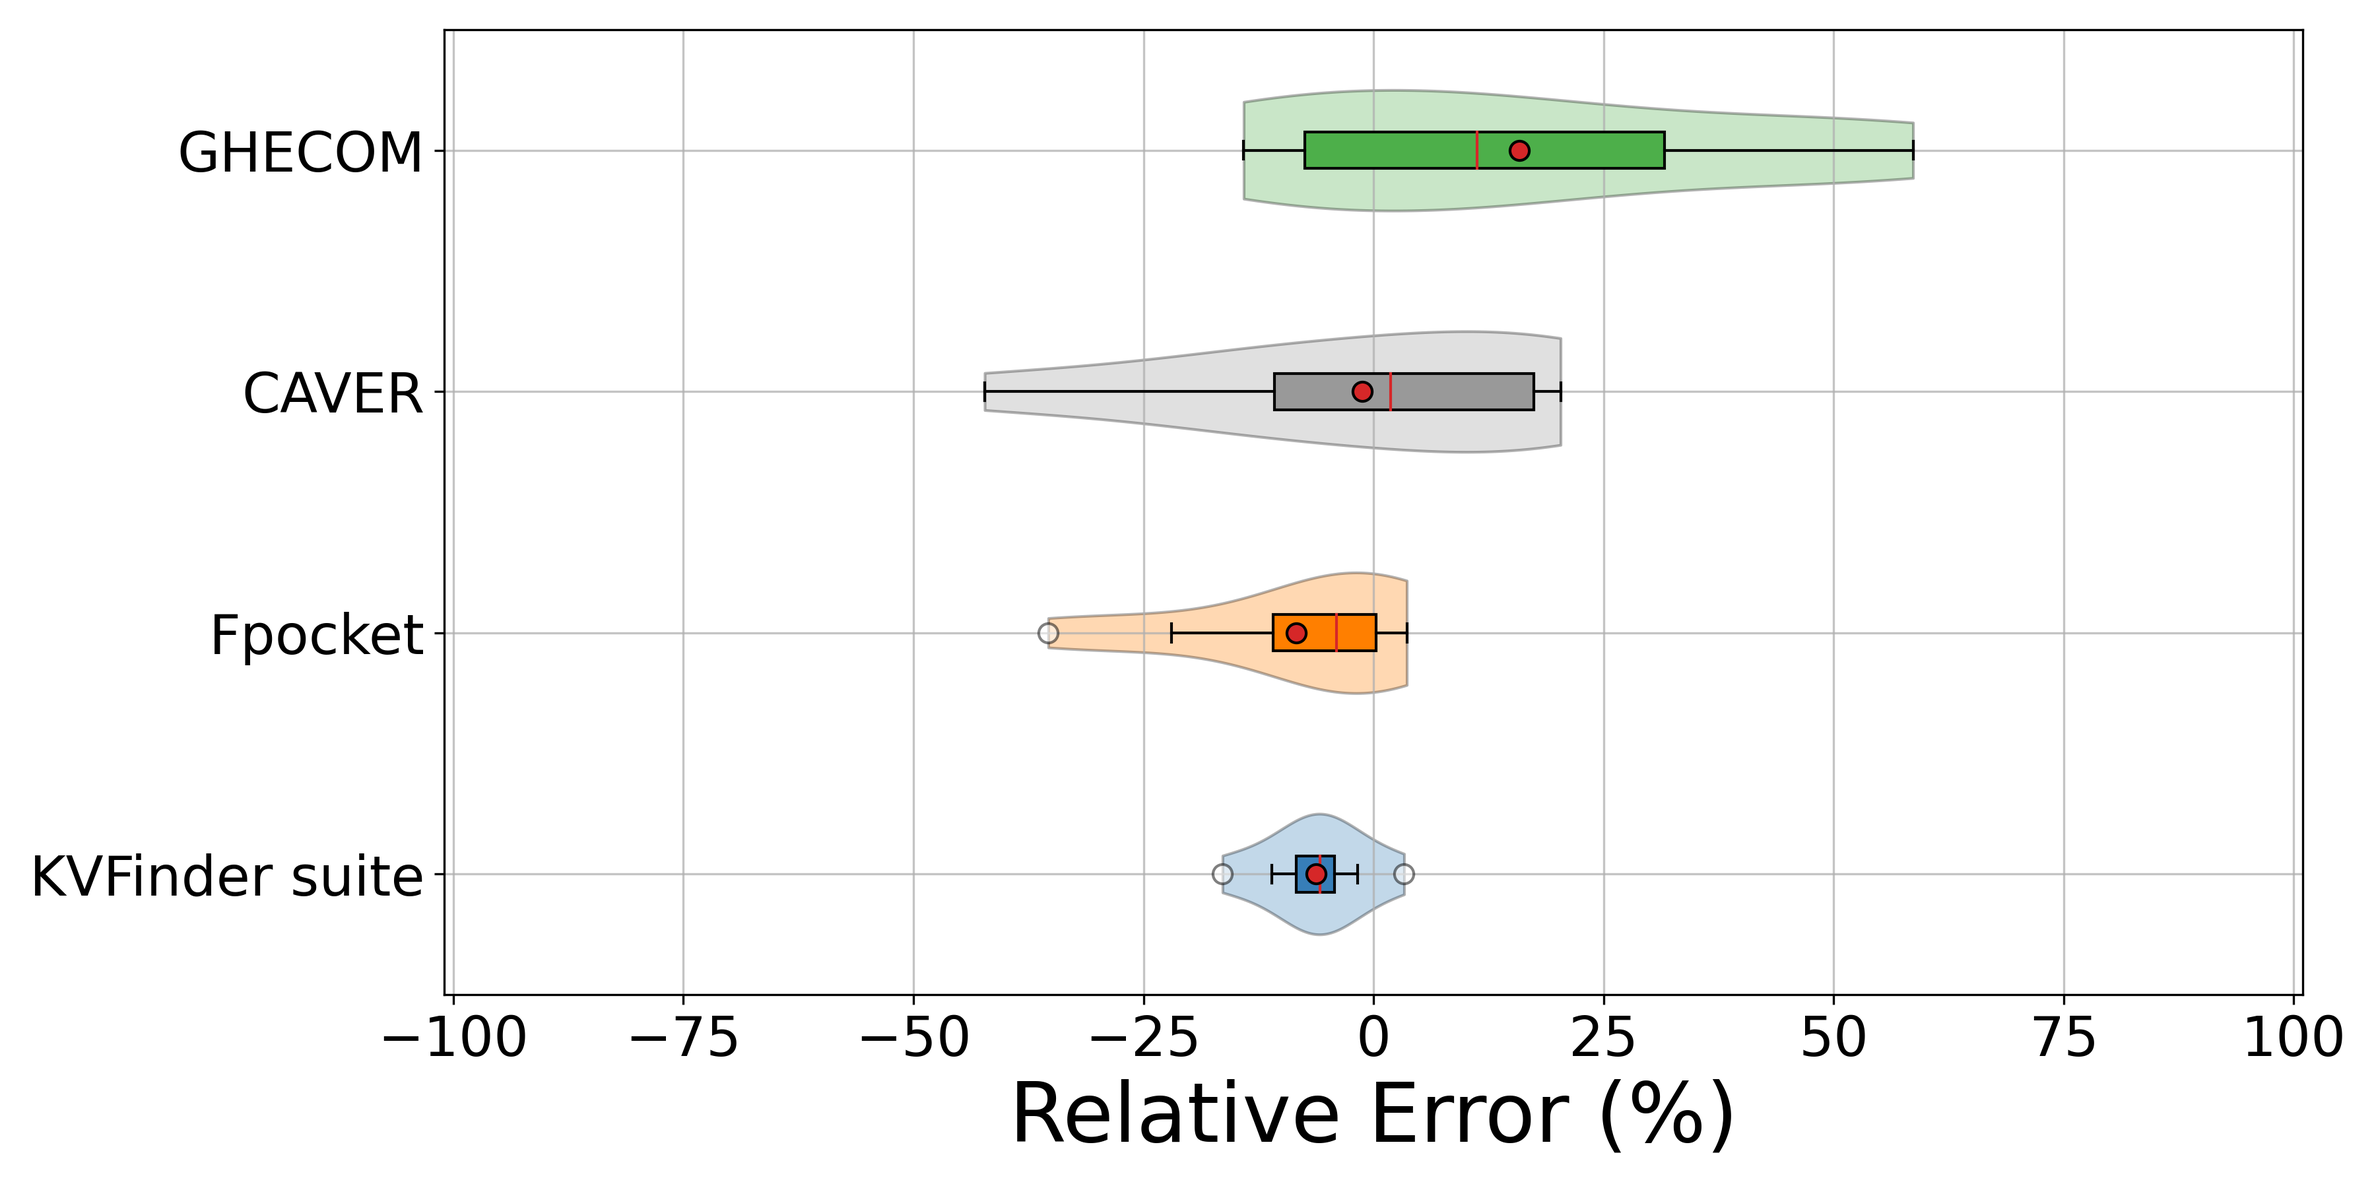
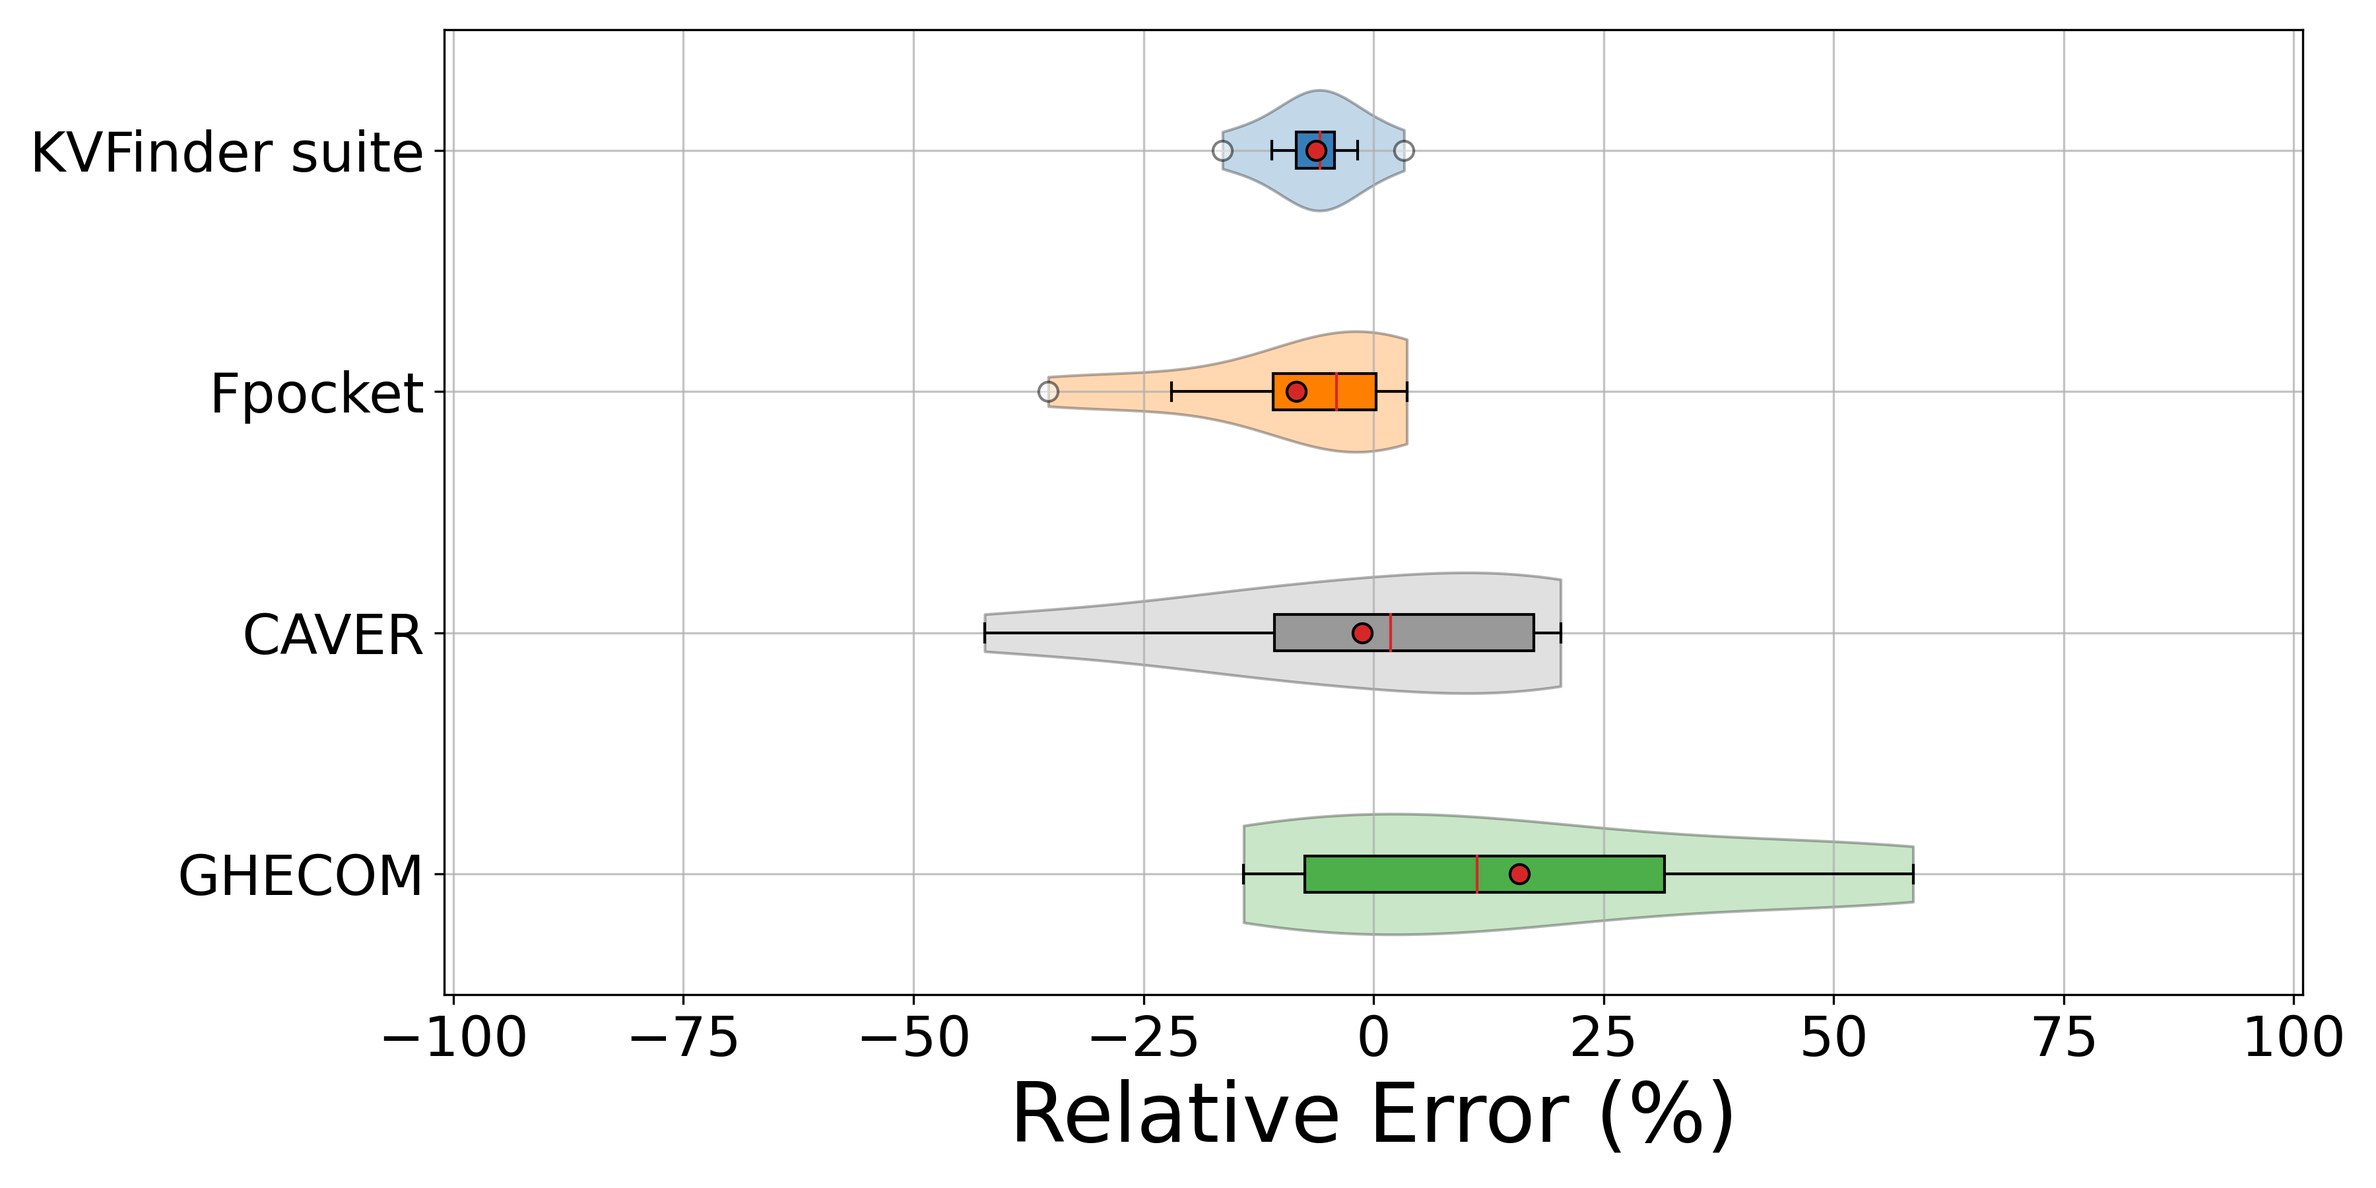
Update benchmarking section

diff --git a/phdthesis.tex b/phdthesis.tex
@@ -1458,7 +1458,7 @@ Despite these limitations, KVFinderMD represents a significant advancement in th
 
 \section{Benchmarking of Well-established Cavity Detection Tools}
 
-Cavity detection methods are usually only benchmarked on their ability to detect binding sites (\ie, qualitative assessment), and not on their ability to accurately characterize their volume (\ie, quantitative assessment). Quantitative descriptors still remains a challenge in the cavity detection field, because the "real" cavity volume in biological systems is not experimentally measurable. In collaboration with Dr. György Szalóki (Laboratoire Hétérochimie Fondamentale et Appliquée - Université Toulouse III Paul Sabatier - France), we developed a benchmarking protocol to evaluate the performance of cavity detection tools in a dataset of well-defined artificial supramolecular cages. The source code for the benchmarking protocol (\href{https://github.com/LBC-LNBio/SMC-Benchmarking/releases/tag/v1.0.0}{v1.0.0}) is available at the following repository: \url{https://github.com/LBC-LNBio/SMC-Benchmarking}.
+Cavity detection methods are usually only benchmarked on their ability to detect binding sites (\ie, qualitative assessment), and not on their ability to accurately characterize their volume (\ie, quantitative assessment). Quantitative descriptors still remains a challenge in the cavity detection field, because the "real" cavity volume in biological systems is not experimentally measurable. In collaboration with Dr. György Szalóki (Laboratoire Hétérochimie Fondamentale et Appliquée - Université Toulouse III Paul Sabatier - France), we developed a benchmarking protocol to evaluate the performance of cavity detection tools in a dataset of well-defined artificial supramolecular cages. This benchmarking protocol was applied to the well-established cavity detection tools, including KVFinder suite, Fpocket, GHECOM, and CAVER tools. The cavity detection benchmarking procedure, optimized detection parameters, and detailed results are available in the article published in the \textit{Journal of Chemical Information and Modeling} \cite{guerra2023B}. The source code for the benchmarking protocol (\href{https://github.com/LBC-LNBio/SMC-Benchmarking/releases/tag/v1.0.0}{v1.0.0}) is available at the following repository: \url{https://github.com/LBC-LNBio/SMC-Benchmarking}.
 
 The "real" cavity volume could be derived from the Rebek's rule of thumb \cite{mecozzi1998}, that states, in any biological or artificial host-guest system, the ratio of the guest and host's cavity is $0.55\pm0.09$, termed as packing  coefficient (\acs{PC}; Eq. \ref{eq:packing-coefficient}), when guest encapsulation is only driven by weak intermolecular interactions (\eg, Keesom forces, Debye forces, and London dispersion forces). However, this rule of thumb is not applicable to systems with strong intermolecular forces (\eg, hydrogen bonds), where the packing coefficient can reach up to $0.70$. 
 
@@ -1475,7 +1475,7 @@ Within this context, there are no existing benchmark dataset to test the perform
 
 The benchmark dataset 1 (Figure \ref{fig:benchmark-dataset-1}) comprises 13 X-ray structures of well-known supramolecular cages, with guest molecules being encapsulated in their void or void-like cavities, following the Rebek's rule of thumb. The guests molecules were removed from their cages and their \acs{vdW} volumes were estimated using \textit{volume} method from \textit{pyKVFinder.Molecule} class (see Section \ref{sec:molecular-volume-estimation}). With it, the "real" cavity volume were calculated using the Rebek's rule of thumb. Then, the cavities of the supramolecular cages were detected and their volumes estimated for each cavity detection tool. As good prediction metrics, the relative error (\acs{RE}; Eq. \ref{eq:re}) and the mean relative absolute error (\acs{MRAE}; Eq. \ref{eq:mrae}) were calculated between cavity volumes.
 
-\begin{figure}[ht]
+\begin{figure}[H]
   \centerline{\includegraphics[scale=0.9]{images/benchmark-dataset-1.png}}
   \centerline{\tiny{\textbf{Source:} Reprinted with permission from \cite{guerra2023B}. Copyright 2023 American Chemical Society.}}
   \caption[Benchmark dataset 1]{\textbf{Benchmark dataset 1.} Each of these inclusion complexes features guest molecule(s) ($G_i$) within the cavity of a supramolecular cage ($B_i$). B1: \ch{(NEt4)+} $\subset$ \ch{Ti4L6} (CSD ID: 718468) \cite{pluth2008}. B2: \ch{(BnNMe3)+} $\subset$ \ch{Ga4L6} (CSD ID: 718469) \cite{pluth2008}. B3: \ch{(Cp2Co)+} $\subset$ \ch{Ti4L6} (CSD ID: 718470) \cite{pluth2008}. B4: \ch{(Cp2Co\ast)+} $\subset$ \ch{Ga4L6} (CSD ID: 718471) \cite{pluth2008}. B5: \ch{(BF4)-} $\subset$ \ch{Pd2L4} (CSD ID: 1862753) \cite{steel2018}. B6: \ch{(OCl4)-} $\subset$ \ch{Pd2L4} (CSD ID: 1862752) \cite{steel2018}. B7: \ch{C60} $\subset$ \ch{Zn8L4} (CSD ID: 942782) \cite{nakamura2013}. B8: \ch{C60} $\subset$ \ch{Pd2L4} (CSD ID: 1872778) \cite{eichstaedt2019}. B9: Adamantane-2,6-dione $\subset$ \ch{Pd2L4} (CSD ID: 183906) \cite{johnson2002}. B10: \ch{(NEt4)+} $\subset$ \ch{Pd2L4} (CSD ID: 100947) \cite{caulder1998}. B11: [Corannulene+Cyclohexane] $\subset$ \ch{Pd2L4} (CSD ID: 2068665) \cite{yang2021}. B12: \ch{C60} $\subset$ \ch{Pd2L4} (CSD ID: 2068666) \cite{yang2021}. B13: \ch{C70} $\subset$ \ch{Pd2L4} (CSD ID: 2068667) \cite{yang2021}.}
@@ -1496,15 +1496,13 @@ The benchmark dataset 1 (Figure \ref{fig:benchmark-dataset-1}) comprises 13 X-ra
 
 \noindent where $MRAE$ is the mean relative absolute error, $V_i$ is the "real" volume of cavity $i$, $\hat{V_i}$ is the estimated volume of cavity $i$, and $N_c$ is the number of cavities.
 
-The performance of each cavity detection tool was assessed by comparing the estimated cavity volumes with the "real" cavity volumes (Table \ref{tab:benchmark-1}). First, we analyzed the \acsp{RE}, that are associated with: (1) defining cavity boundaries, and (2) deviations in the \acs{PC} relative to the Rebek's rule of thumb. To mitigate the first source of errors, benchmark dataset 1 exclusively contains supramolecular cages with well-defined void or void-like cavities, where delineating cavity boundaries is straighforward. Conversely, deviations from the Rebek's rule of thumb are more difficult to identify. Denser packings (\ie, $PC > 0.55$) in inclusion complexes can be reached by forces beyond weak dipole-dipole interactions (\eg, hydrogen bonds, $\pi$-$\pi$, and CH-$\pi$ interactions), which favor strong host-guest association \cite{pluth2008}. This results in a loss of entropy (\ie, restricted movement of the guest within the cage), which is counterbalanced by the extra stabilization enthalpy. Consequently, negative \acs{RE} is expected in such instances, resulting from to the overestimation of cavity volume. This trend can be clearly observed in the results of the KVFinder suite, Fpocket, and CAVER for B4--B9, B12, and B13 cages, with experimental evidence for H-bonding in B5, B6, and B9 \cite{steel2018,johnson2002}. Moreover, considering cases with \ch{(Cp2Co\ast)+} (B4), \ch{C60} (B7, B8, and B12), and \ch{C70} (B13) as guests, additional $\pi$-$\pi$ and CH-$\pi$ interactions contribute strong host-guest associations. GHECOM, on the other hand, show a large negative \acs{RE} for each supramolecular cage, suggesting that the calculation error becomes more significant. Conversely, \acs{MRAE} values clearly show that KVFinder suite and Fpocket provide the most reliable cavity volumes.
-
-\begin{table}[H]
+\begin{table}[h]
   \centering
-  \caption[Performance of the well-established cavity detection tools in Benchmark dataset 1]{\textbf{Performance of the well-established cavity detection tools in Benchmark dataset 1.} Estimated cavity volumes by the well-established cavity detection tools. The relative error are calculated using the "real" cavity volume as reference and can be found in paratheses. $V$: "real" cavity volume. $V_{guest}$: guest \acs{vdW} volume. $V = V_{guest} / 0.55$.}
+  \caption[Performance of the well-established cavity detection tools in Benchmark dataset 1]{\textbf{Performance of the well-established cavity detection tools in benchmark dataset 1.} Estimated cavity volumes by the well-established cavity detection tools. The relative error are calculated using the "real" cavity volume as reference and can be found in paratheses. $V$: "real" cavity volume. $V_{guest}$: guest \acs{vdW} volume. $V = V_{guest} / 0.55$.}
   \scalebox{0.725}{  
     \begin{tabular}{ccccabef}
       \hline
-      \textbf{Cage} & \textbf{Guest} & $\boldsymbol{V_{guest}}$ & $\boldsymbol{V}$ & \textbf{KVFinder suite} & \textbf{fpocket} & \textbf{CAVER} & \textbf{GHECOM} \\ \hline
+      \textbf{Cage} & \textbf{Guest} & $\boldsymbol{V_{guest}}$ & $\boldsymbol{V}$ & \textbf{KVFinder suite} & \textbf{Fpocket} & \textbf{CAVER} & \textbf{GHECOM} \\ \hline
       B1 & \ch{(NEt4)+} & 150 & 273 & 283 (3.7\%) & 247 (-9.5\%) & 396 (44.8\%) & 175 (-35.9\%) \\
       B2 & \ch{(BnNMe3)+} & 155 & 281 & 283 (0.8\%) & 279 (-0.6\%) & 339 (20.8\%) & 192 (-31.7\%) \\ 
       B3 & \ch{(Cp2Co)+} & 137 & 248 & 269 (8.1\%) & 277 (11.6\%) & 335 (34.9\%) & 191 (-23.3\%) \\
@@ -1524,19 +1522,19 @@ The performance of each cavity detection tool was assessed by comparing the esti
   \label{tab:benchmark-1}
 \end{table}
 
-% TODO: Rewrite this paragraph
-% A visual representation of the software performance (Figure \ref{fig:re-plot-benchmark-1}) shows that volumes calculated with KVFinder project and Fpocket are close to the estimated volume with a small spread compared to other software. Despite a few outlying results, the overall trend (vide supra) supports our approach of using Rebek's rule as the best estimate for the “real” cavity volume within these supramolecular cages.
+The performance of each cavity detection tool was assessed by comparing the estimated cavity volumes with the "real" cavity volumes (Table \ref{tab:benchmark-1}). First, we analyzed the \acsp{RE}, that are associated with: (1) defining cavity boundaries, and (2) deviations in the \acs{PC} relative to the Rebek's rule of thumb. To mitigate the first source of errors, benchmark dataset 1 exclusively contains supramolecular cages with well-defined void or void-like cavities, where delineating cavity boundaries is straighforward. Conversely, deviations from the Rebek's rule of thumb are more difficult to identify. Denser packings (\ie, $PC > 0.55$) in inclusion complexes can be reached by forces beyond weak dipole-dipole interactions (\eg, hydrogen bonds, $\pi$-$\pi$, and CH-$\pi$ interactions), which favor strong host-guest association \cite{pluth2008}. This results in a loss of entropy (\ie, restricted movement of the guest within the cage), which is counterbalanced by the extra stabilization enthalpy. Consequently, negative \acs{RE} is expected in such instances, resulting from to the overestimation of cavity volume. This trend can be clearly observed in the results of the KVFinder suite, Fpocket, and CAVER for B4--B9, B12, and B13 cages, with experimental evidence for H-bonding in B5, B6, and B9 \cite{steel2018,johnson2002}. Moreover, considering cases with \ch{(Cp2Co\ast)+} (B4), \ch{C60} (B7, B8, and B12), and \ch{C70} (B13) as guests, additional $\pi$-$\pi$ and CH-$\pi$ interactions contribute strong host-guest associations. GHECOM, on the other hand, show a large negative \acs{RE} for each supramolecular cage, suggesting that the calculation error becomes more significant. Conversely, \acs{MRAE} values clearly show that KVFinder suite and Fpocket provide the most reliable cavity volumes.
+
+Furthermore, the cavity volumes estimated with KVFinder suite and Fpocket are close to the estimated volume with a small spread compared to other cavity detection tools (Figure \ref{fig:re-plot-benchmarks}A). Despite a few outliers, the overall trend supports our approach of using Rebek's rule of thumb as the optimal estimate for the “real” cavity volume within these supramolecular cages.
 
 \begin{figure}[ht]
-  \centerline{\includegraphics[scale=0.5]{images/smc-re-plots/RE-boxplot-benchmark-1.png}}
-  \caption[Benchmark dataset 1]{\textbf{Benchmark dataset 1.}}
-  \label{fig:re-plot-benchmark-1}
+  \centerline{\includegraphics[scale=0.8]{images/smc-re-plots.png}}
+  \caption[Boxplot of the relative error of the cavity volume in the benchmark datasets]{\textbf{Boxplot of the relative error of the cavity volume in the benchmark datasets.}  \textbf{(A)} Benchmark dataset 1 with "real" cavity volume as reference. \textbf{(B)} Benchmark dataset 2 with the average volume of detected cavities as reference. In benchmark dataset 2, the cavity of O2 is excluded due to high uncertainty in detecting its cavity by some methods. Each cavity detection tool is presented with a violin plot depicting the probability density function of the relative error. The red line denotes the median, and the point indicates the mean relative errors.}
+  \label{fig:re-plot-benchmarks}
 \end{figure}
 
 \subsection{Benchmarking Dataset 2}
 
-% TODO: Rewrite this paragraph
-% The benchmark dataset 2 (Figure \ref{fig:benchmark-dataset-2}) comprises 9 X-ray structures of well-known supramolecular cages, without the guest molecules, but with different topological and morphological features (\ie, cavity size, opening size, and shape). This dataset aims to evaluate the capabilities and limitations of the well-established cavity detection tools in detecting different types of cavities (Figure \ref{fig:cavity-classification}). However, these supramolecular cages do not contain guests inside their cavity, so the "real" cavity volume estimation cannot be calculated by the Rebek's rule of thumb. Consequently, the average volume of detected cavities was chosen as the point of comparison to calculated volumes (Table \ref{tab:benchmark-2}), which establishes an agreement between methods by mitigating deviations in volume data.
+The benchmark dataset 2 (Figure \ref{fig:benchmark-dataset-2}) comprises 9 X-ray structures of well-known supramolecular cages, without the guest molecules, but with different topological and morphological features (\ie, cavity size, opening size, and shape). This dataset aims to evaluate the capabilities and limitations of the well-established cavity detection tools in detecting different types of cavities (Figure \ref{fig:cavity-classification}). However, since these supramolecular cages lack internal guests, the estimation of the "real" cavity volume via Rebek's rule of thumb is not feasible. Consequently, the average volume of detected cavities serves as the point of comparison for calculated volumes (Table \ref{tab:benchmark-2}), establishing an agreement between methods by mitigating discrepancies in volume data.
 
 \begin{figure}
   \centerline{\includegraphics[scale=0.9]{images/benchmark-dataset-2.png}}
@@ -1554,7 +1552,27 @@ The performance of each cavity detection tool was assessed by comparing the esti
   \label{fig:benchmark-dataset-2}
 \end{figure}
 
-It is important to note that the cavity detection benchmarking procedure, optimized detection parameters, and detailed results are available in the article published in the \textit{Journal of Chemical Information and Modeling} \cite{guerra2023B}. 
+% \begin{table}[!ht]
+%   \centering
+%   \caption[Performance of the well-established cavity detection tools in Benchmark dataset 2]{\textbf{Performance of the well-established cavity detection tools in benchmark dataset 2.} Estimated cavity volumes by the well-established cavity detection tools. The relative error are calculated using the "real" cavity volume as reference and can be found in paratheses. $V$: average cavity volume. $V_{guest}$: guest \acs{vdW} volume. $V = V_{guest} / 0.55$.}
+%   \scalebox{0.7}{
+%     \begin{tabular}{cccabef}
+%       \hline
+%       \textbf{Cavity type} & \textbf{Cage} & $\boldsymbol{\bar{V}}$ & \textbf{KVFinder suite} & \textbf{fpocket} & \textbf{CAVER} & \textbf{GHECOM} \\ \hline
+%       A1 & 1315 & 1399 (6.4\%) & 1387 (5.5\%) & 1411 (7.3\%) & 1778 (35.2\%) & 1362 (3.6\%) \\
+%       C1 & 549 & 558 (1.6\%) & 617 (12.3\%) & 648 (17.9\%) & 569 (3.6\%) & 669 (21.7\%) \\ 
+%       F1 & 500 & 463 (-7.5\%) & 483 (-3.5\%) & 653 (30.6\%) & 481 (-3.9\%) & 655 (30.9\%) \\ 
+%       F2 & 42572 & 37728 (-11.4\%) & 39077 (-8.2\%) & 62843 (47.6\%) & 22941 (-46.1\%) & 59147 (38.9\%) \\ 
+%       H1 & 259 & 226 (-12.8\%) & 211 (-18.6\%) & 409 (58.1\%) & 215 (-16.8\%) & 429 (65.5\%) \\ 
+%       N1 & 434 & 488 (12.4\%) & 495 (14\%) & 526 (21.2\%) & 543 (25.1\%) & 461 (6.2\%) & 211 (-51.4\%) \\ 
+%       O1 & 142 & 160 (12.9\%) & 177 (24.5\%) & 172 (21.2\%) & 199 (40\%) & 146 (3.2\%) \\ 
+%       O2 & 20 & 36 (78.8\%) & 0 (-100\%) & 37 (82.2\%) & 0 (-100\%) & 0 (-100\%) \\ 
+%       W1 & 696 & 866 (24.4\%) & 542 (-22.2\%) & 984 (41.3\%) & 1008 (44.8\%) & 936 (34.4\%) \\ \hline
+%       \textbf{MRAE} & ~ & \textbf{18.7\%} & \textbf{23.2\%} & \textbf{36.4\%} & \textbf{35.1\%} & \textbf{33.8\%} \\ \hline
+%     \end{tabular}
+%   }
+%   \label{tab:benchmark-1}
+% \end{table}
 
 \subsection{Discussion}
 

diff --git a/images/smc-re-plots/RE-plots.py b/images/smc-re-plots/RE-plots.py
@@ -6,10 +6,10 @@ import matplotlib.pyplot as plt
 
 # COLORBLIND PALETTE
 COLORBLIND = [
-    "#377eb8",  # blue
-    "#ff7f00",  # orange
-    "#999999",  # gray
     "#4daf4a",  # green
+    "#999999",  # gray
+    "#ff7f00",  # orange
+    "#377eb8",  # blue
 ]
 
 ### Benchmark dataset 1
